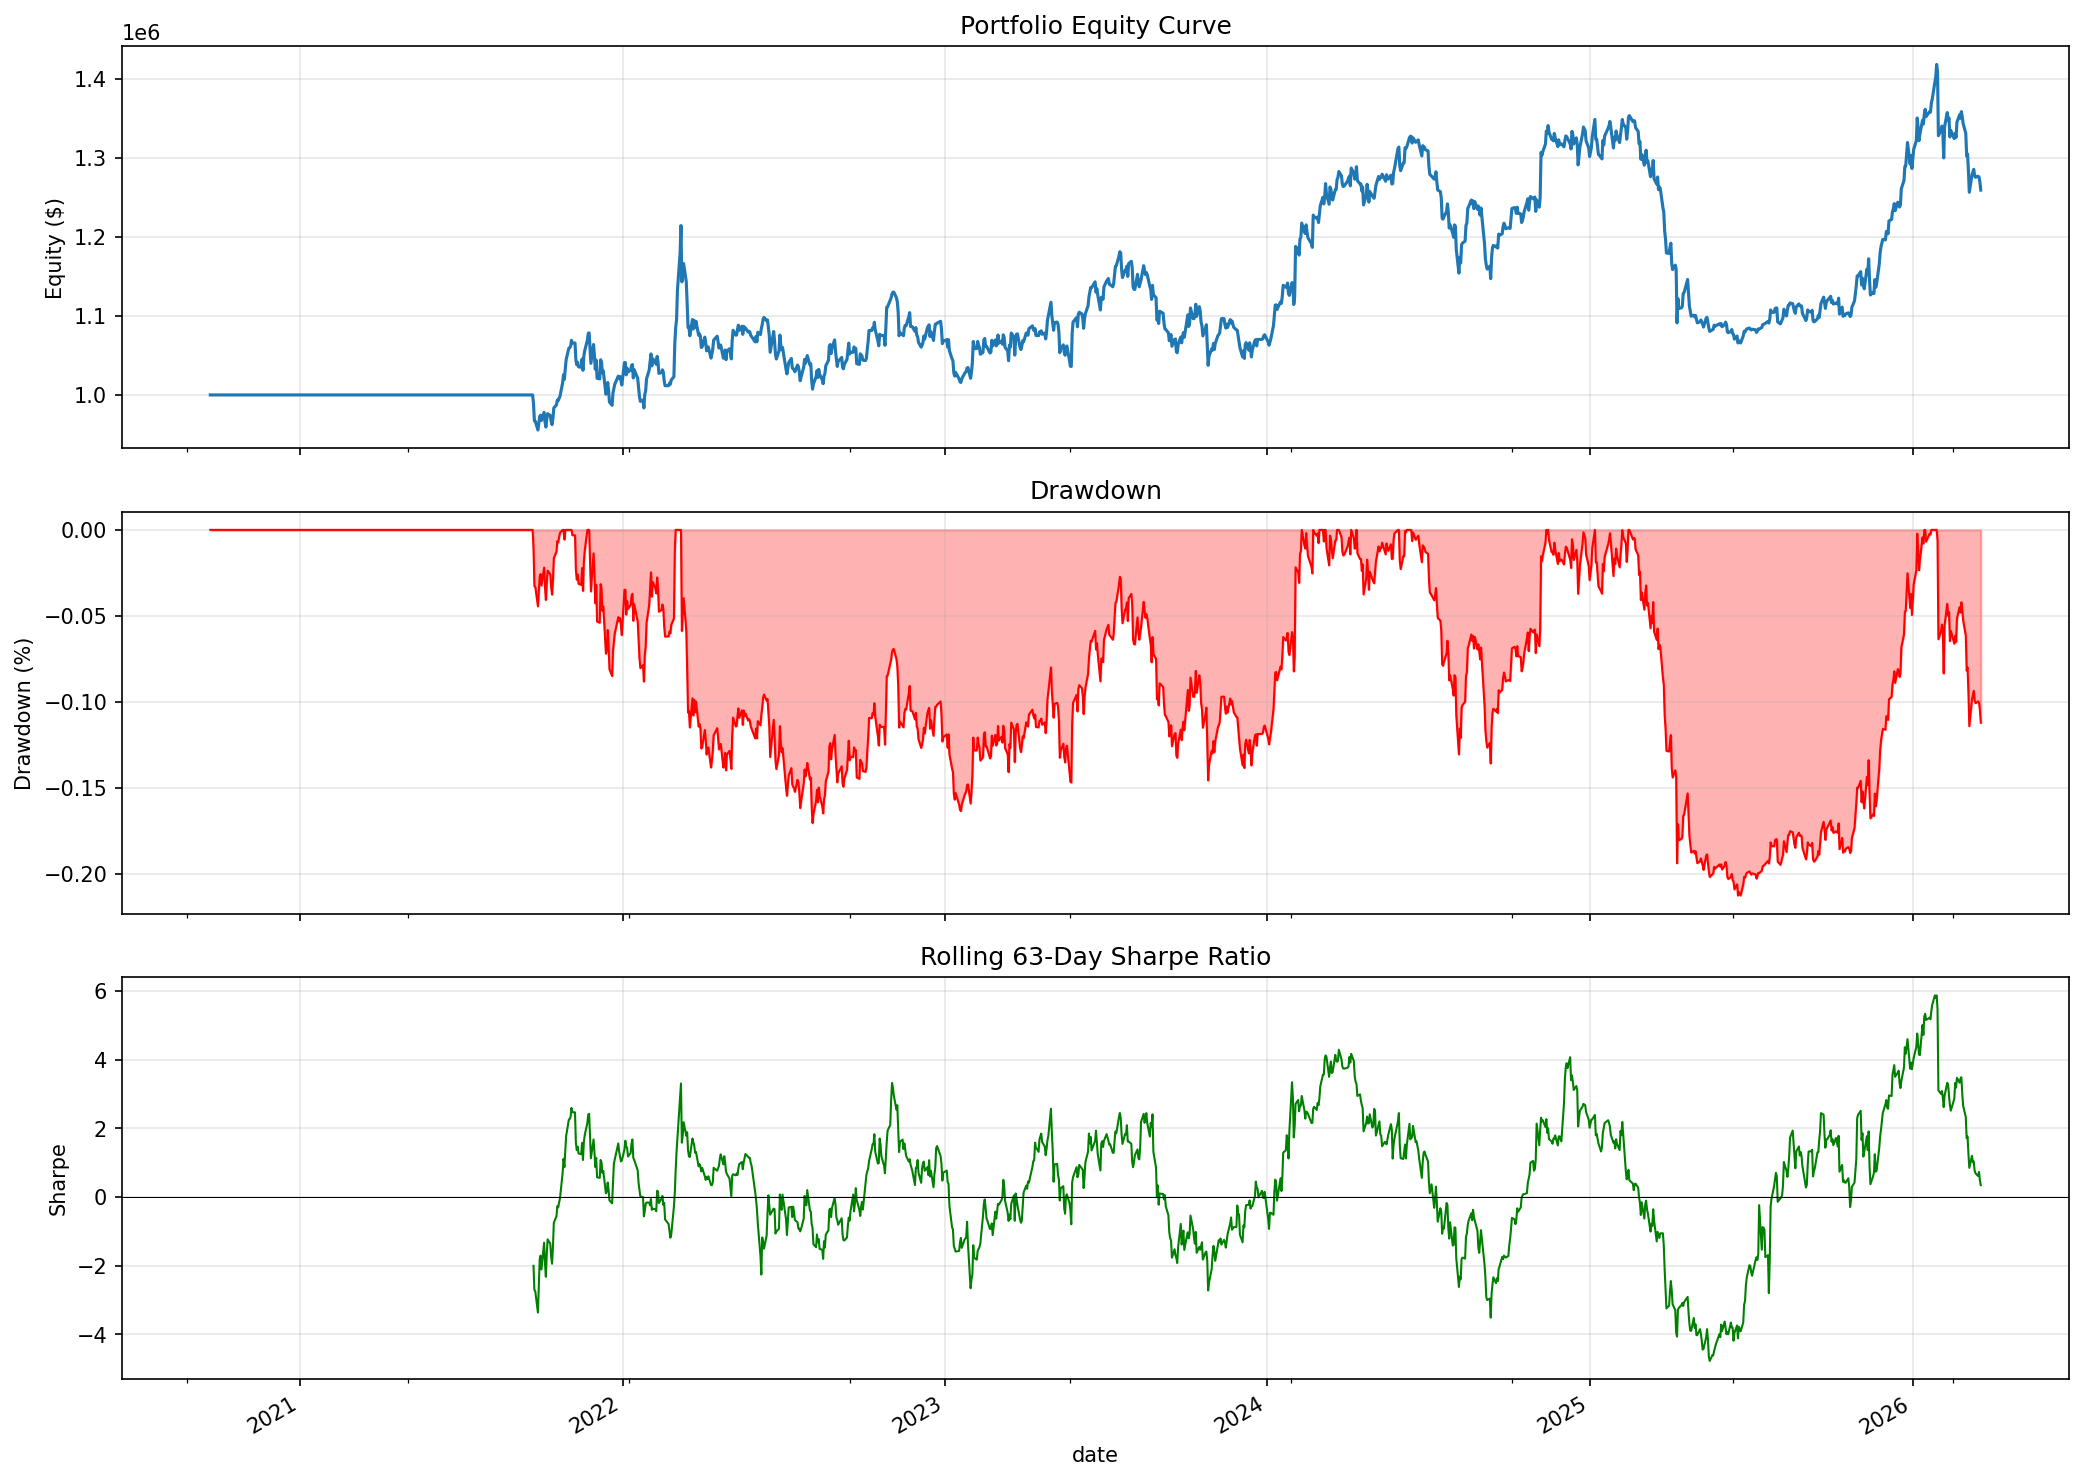
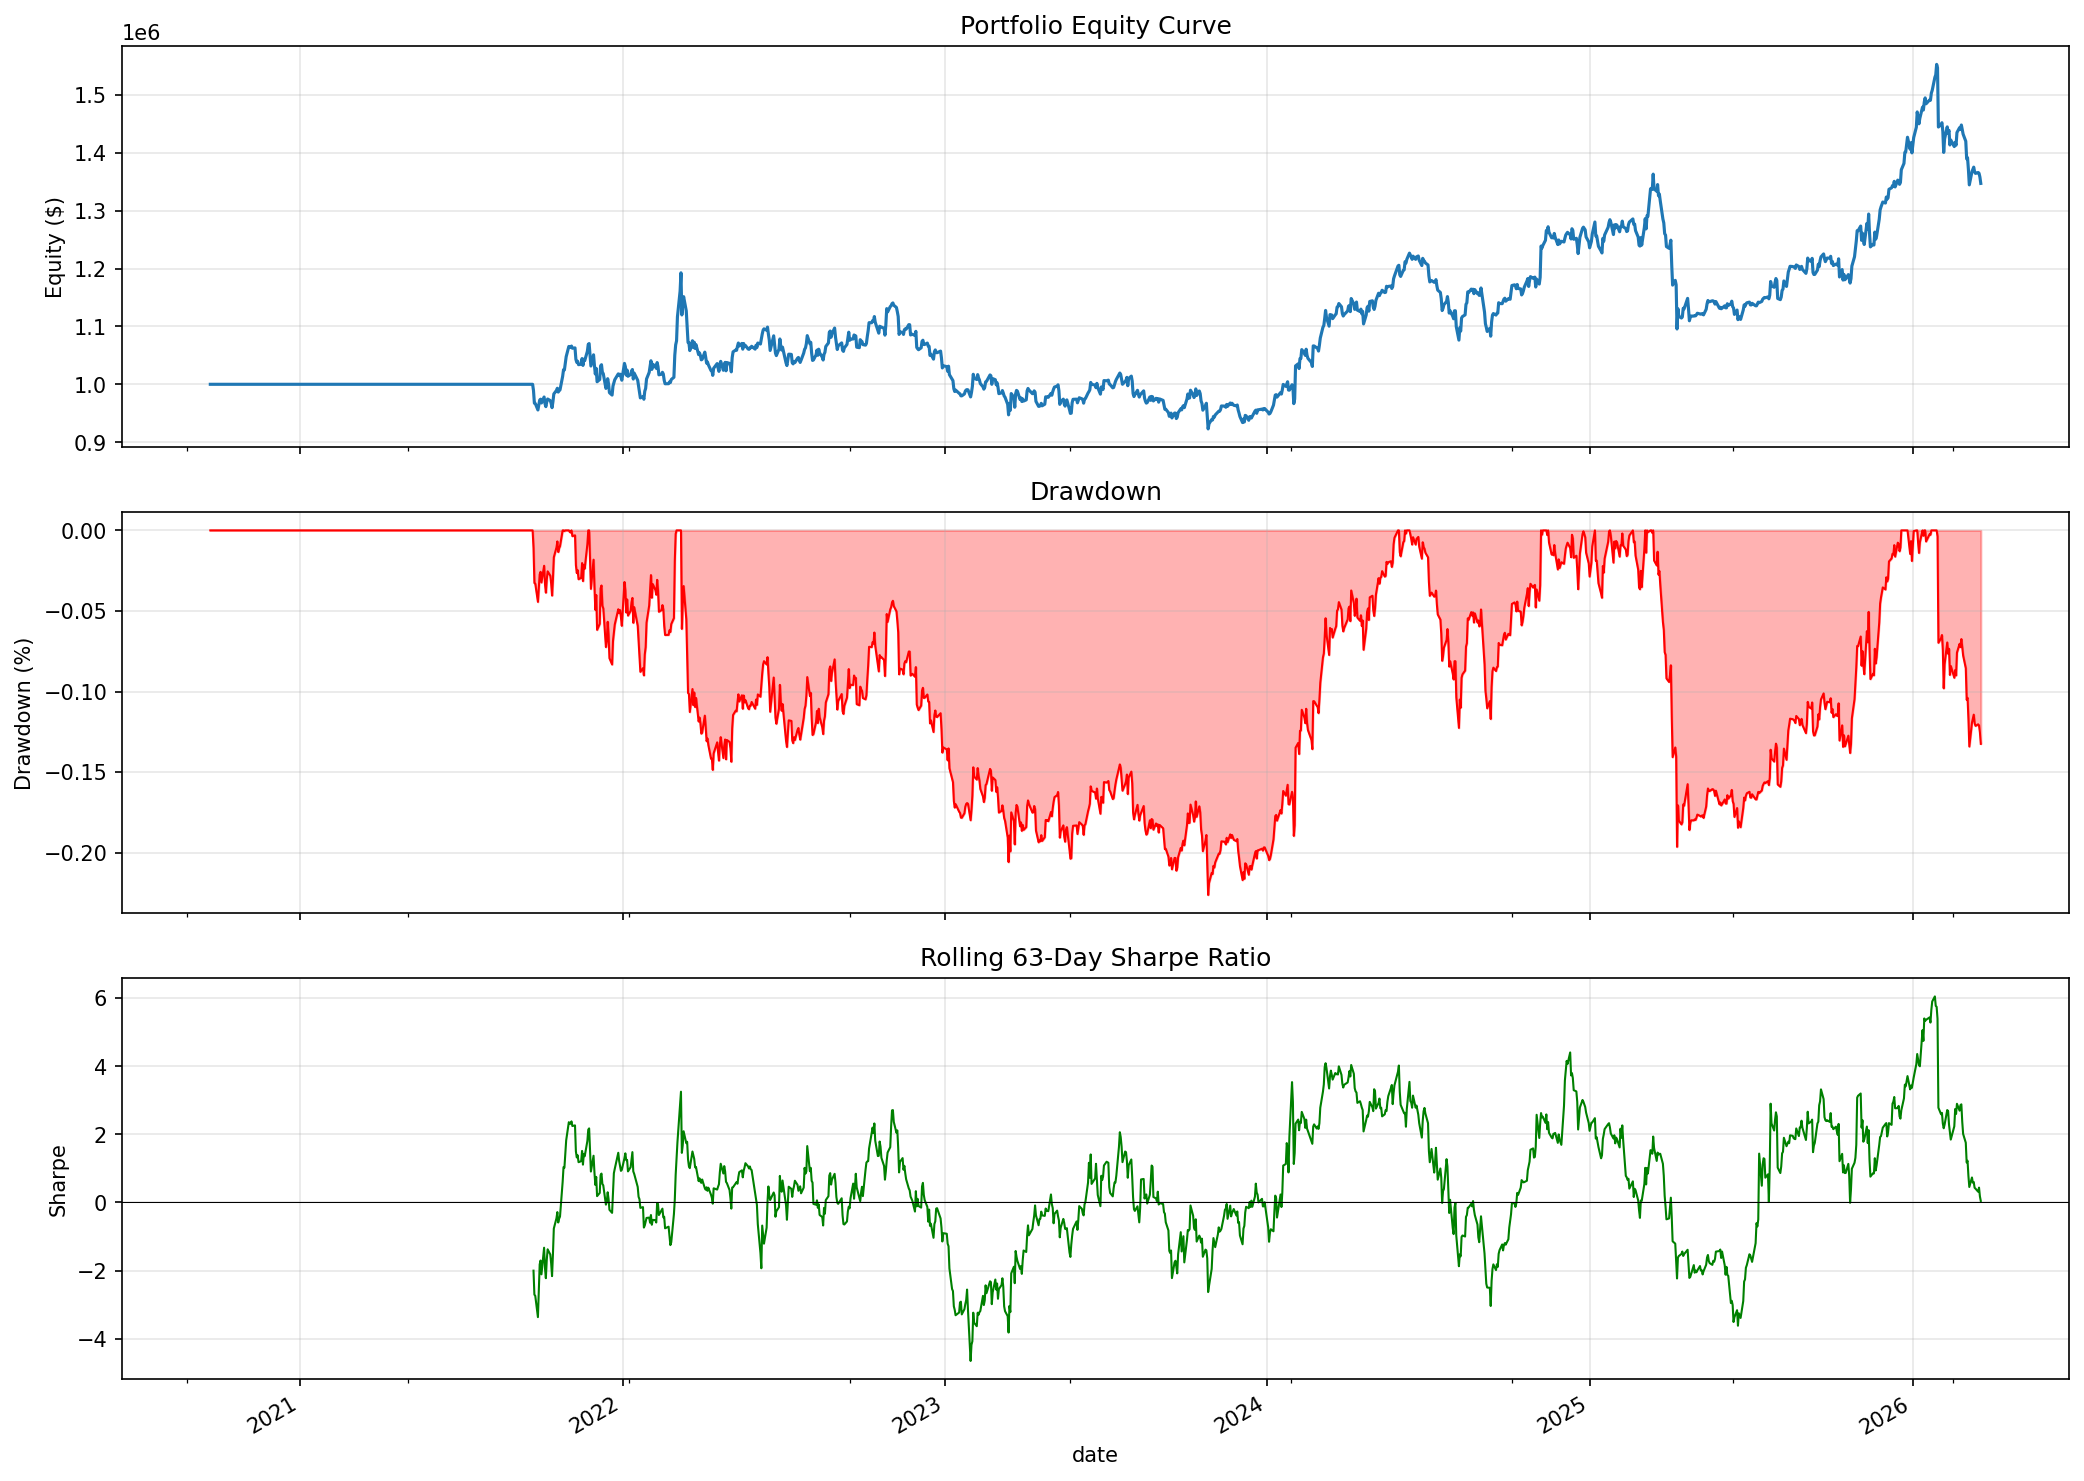
experiment: iteration 9 - faster ML retraining (3x assets vs 5x) + more estimators

diff --git a/alpha/ml_alpha.py b/alpha/ml_alpha.py
@@ -83,14 +83,12 @@ class MLAlpha(AlphaModel):
         train_window = self.config.ml_train_window
         # Scale retrain frequency with universe size to prevent hanging
         n_assets = len(prices.columns)
-        retrain_freq = max(self.config.ml_retrain_frequency, n_assets * 5)
+        retrain_freq = max(self.config.ml_retrain_frequency, n_assets * 3)
 
-        # Reduce model complexity for large universes
+        # Model complexity scales with universe
         n_estimators = self.config.ml_n_estimators
-        if n_assets > 10:
-            n_estimators = min(n_estimators, 100)
         if n_assets > 20:
-            n_estimators = min(n_estimators, 50)
+            n_estimators = min(n_estimators, 100)
 
         # Walk-forward: train on past, predict on present
         for i, date in enumerate(dates):
